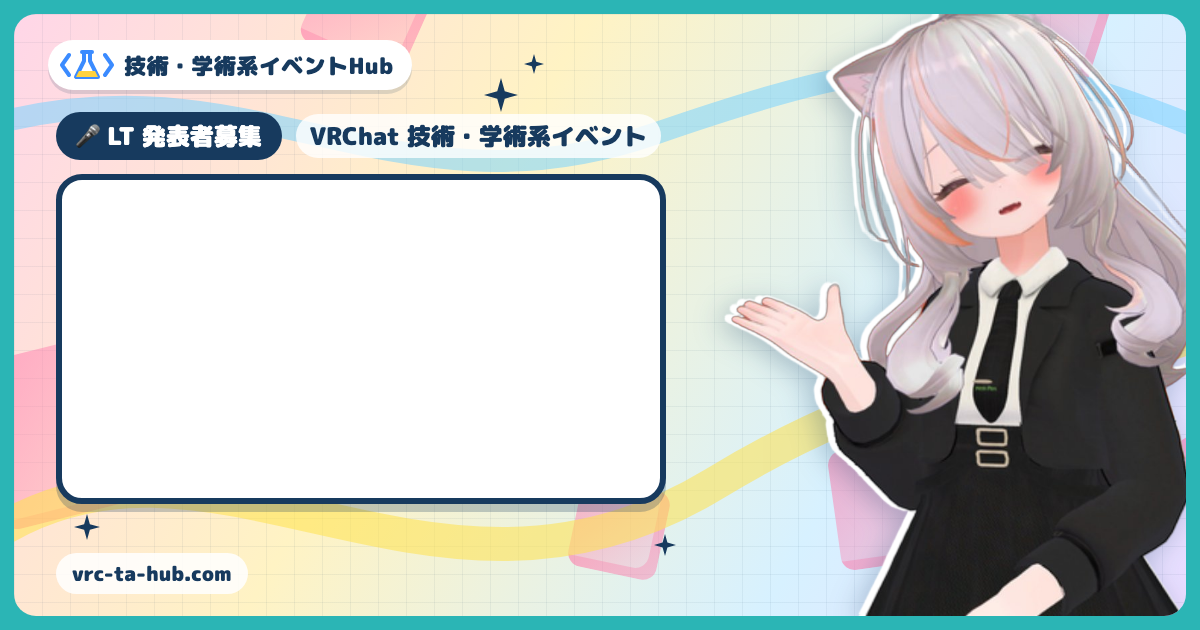
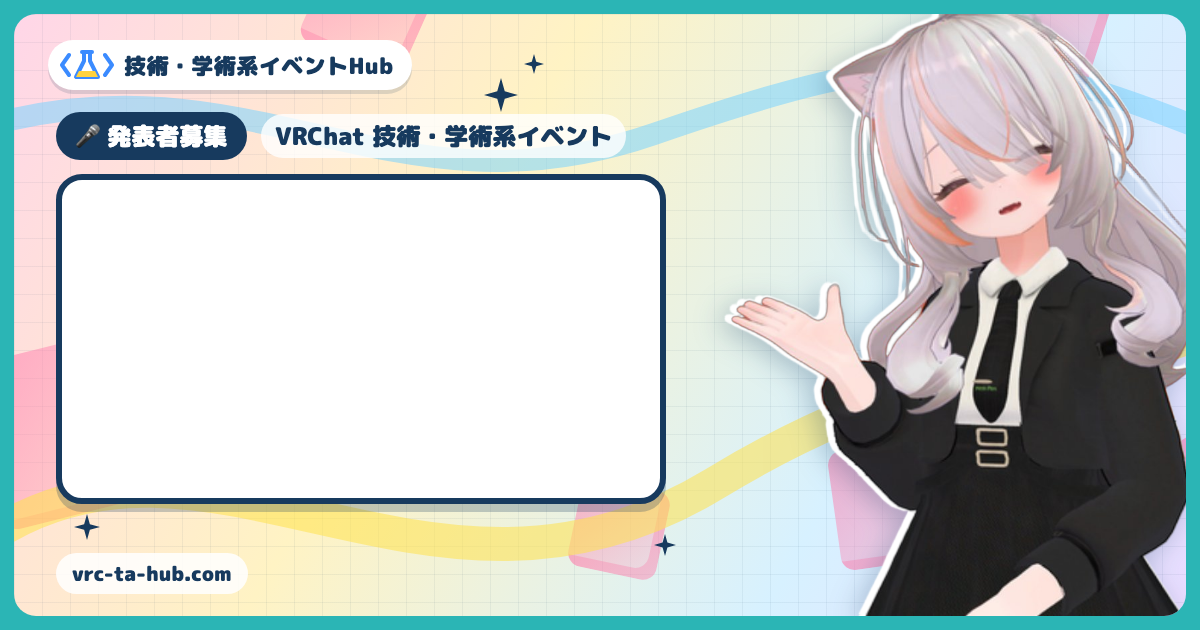
「発表」表記に揃え、画像の同時描画とガイドの本文変換を抑える
Claude-Session: https://claude.ai/code/session_01M6D2UYBULC9EJmNvrnyrGU

Changed region(s): [[0.0925, 0.181, 0.555, 0.2714]]

diff --git a/app/ta_hub/tests/test_og.py b/app/ta_hub/tests/test_og.py
@@ -141,6 +141,26 @@ class HubOgTests(TestCase):
             with patch('guide.views.GUIDE_ROOT', root):
                 self.assert_png(self.client.get(reverse('ta_hub:og_guide', kwargs={'path': 'event/auto-post'})))
 
+    def test_guide_image_reads_title_without_converting_body(self):
+        # 画像に要るのはタイトルだけなので、匿名アクセスのたびに本文を HTML へ変換しない。
+        with patch('guide.views.convert_markdown') as convert:
+            self.assert_png(self.client.get(reverse('ta_hub:og_guide', kwargs={'path': 'event/auto-post'})))
+        convert.assert_not_called()
+
+    def test_concurrent_requests_render_same_image_once(self):
+        import threading
+        _render_text_png_cached.cache_clear()
+        with patch('ta_hub.og_image.Image.open', wraps=Image.open) as opened:
+            threads = [
+                threading.Thread(target=render_text_png, args=(ASSET_ROOT / 'community', '同時アクセス'))
+                for _ in range(5)
+            ]
+            for thread in threads:
+                thread.start()
+            for thread in threads:
+                thread.join()
+        self.assertEqual(opened.call_count, 1)
+
     def test_image_routes_do_not_conflict_and_reject_post(self):
         for route, kwargs in (
             ('ta_hub:og_community', {'pk': self.community.pk}),
@@ -197,7 +217,7 @@ class HubOgTests(TestCase):
     def test_anonymous_application_get_is_private_public_shell(self):
         for path in self.application_paths():
             response = self.client.get(path, {'q': '"><script>input</script>'})
-            self.assertContains(response, f'{self.community.name} LT 発表申込み')
+            self.assertContains(response, f'{self.community.name} 発表申込み')
             self.assertContains(response, '<meta name="robots" content="noindex,follow">', html=True)
             self.assertNotContains(response, '<script>input</script>')
             self.assertNotContains(response, 'name="theme"')

diff --git a/app/ta_hub/og_image.py b/app/ta_hub/og_image.py
@@ -3,6 +3,7 @@ from __future__ import annotations
 
 import json
 import re
+import threading
 from functools import lru_cache
 from io import BytesIO
 from pathlib import Path
@@ -60,7 +61,13 @@ def _wrap_text(text: str, font, width: int) -> list[str]:
 def render_text_png(base: Path, title: str, asset_name: str = 'base') -> bytes:
     # 文字は公開済みの集会・ガイド・お知らせからのみ取得する。
     # リクエストの v はキーに含めず、同じ素材・文字の描画を使い回す。
-    return _render_text_png_cached(str(base), title, asset_name)
+    # lru_cache は描画中の結果を共有しないので、同時アクセスで同じ画像を何度も描かないよう 1 本ずつ通す。
+    # 描画は 1 枚数十 ms で、キャッシュに載った後はロックをすぐ抜ける。
+    with _render_lock:
+        return _render_text_png_cached(str(base), title, asset_name)
+
+
+_render_lock = threading.Lock()
 
 
 # 描く文字は承認済みの集会・LT 受付中の集会・ガイド・お知らせの数までで、合計 200 件ほど。

diff --git a/app/guide/views.py b/app/guide/views.py
@@ -184,11 +184,12 @@ def get_breadcrumbs(nav_items: list[NavItem], current_path: str) -> list[dict]:
     return breadcrumbs
 
 
-def load_markdown_content(path: str) -> tuple[str, dict]:
+def load_markdown_content(path: str, render_body: bool = True) -> tuple[str, dict]:
     """マークダウンファイルを読み込んでHTMLに変換する
 
     Args:
         path: ガイドのパス（例: 'community/create'）
+        render_body: False ならフロントマターだけ読み、本文の HTML 変換を省く（サムネイル用）
 
     Returns:
         (HTML本文, フロントマター辞書) のタプル
@@ -239,6 +240,9 @@ def load_markdown_content(path: str) -> tuple[str, dict]:
                     frontmatter = yaml.safe_load(frontmatter_str) or {}
                 except yaml.YAMLError as e:
                     logger.warning(f"フロントマターの解析に失敗: {e}")
+
+        if not render_body:
+            return '', frontmatter
 
         # マークダウンをHTMLに変換
         html = convert_markdown(body)

diff --git a/app/ta_hub/og.py b/app/ta_hub/og.py
@@ -22,7 +22,7 @@ def application_text(community):
 
 def application_metadata(request, community):
     return {
-        'og_title': f'{community.name} LT 発表申込み',
+        'og_title': f'{community.name} 発表申込み',
         'og_image_url': (
             image_url(request, 'ta_hub:og_lt_apply', application_text(community), pk=community.pk)
             if accepts_public_application(community) else DEFAULT_NEWS_IMAGE_URL

diff --git a/app/ta_hub/views_og.py b/app/ta_hub/views_og.py
@@ -41,6 +41,6 @@ def community_og(request, pk):
 
 @require_GET
 def guide_og(request, path):
-    _, frontmatter = load_markdown_content(path)
+    _, frontmatter = load_markdown_content(path, render_body=False)
     # ログにはパスやタイトルを出さず、検証済みパスの固定長ハッシュだけを使う。
     return _png('guide', frontmatter.get('title', 'ガイド'), sha256(path.encode()).hexdigest()[:8])

diff --git a/docs/vket-og-images.md b/docs/vket-og-images.md
@@ -59,7 +59,7 @@ Hub の固定画像は `app/ta_hub/static/ta_hub/og/`、コラボ一覧は
 ガイドは既存の読み込み処理で検証したページのみで、任意の文字は受け付けない。
 キャッシュキーは背景と保存済みの文字列から作り、クエリの `v` は無視する。
 描画対象の種類は公開集会数・ガイドファイル数に限られ、履歴を含むプロセス内キャッシュも
-64 件を上限にする。タイトルの変更時は画像 URL の `v` が変わる。
+256 件を上限にする（承認済みの集会・ガイド・お知らせの文字が全部載る大きさ）。タイトルの変更時は画像 URL の `v` が変わる。
 
 発表申込みの匿名 GET は公開案内を返し、ログイン後は従来の申込みフォームを表示する。
 案内は noindex、private / no-store、Vary: Cookie。集会ポスターがあれば従来の画像を使う。
